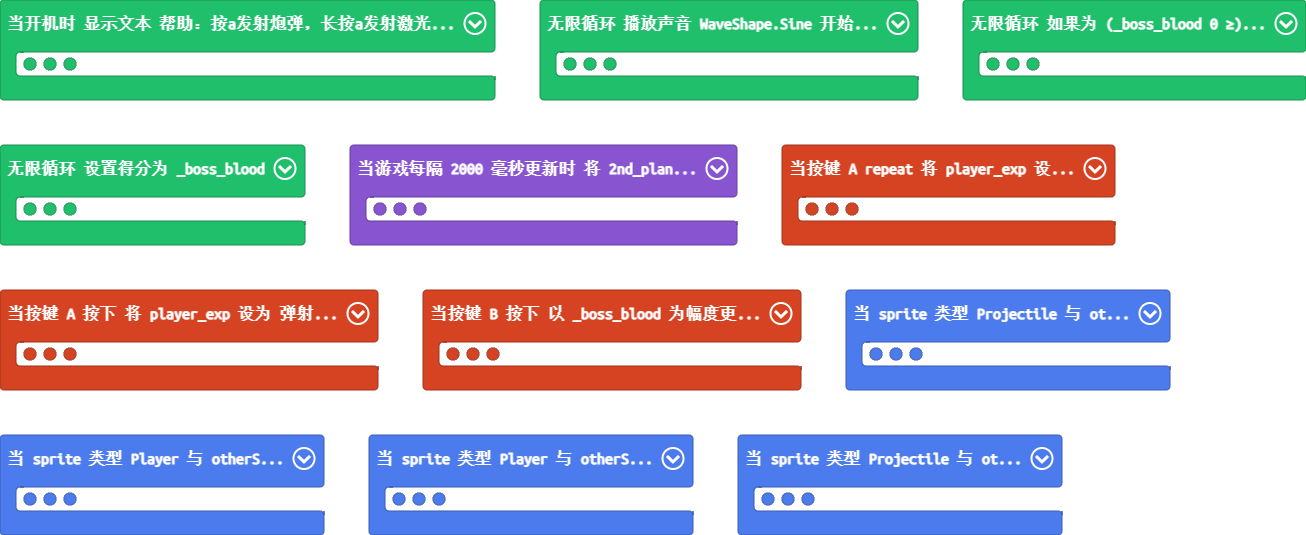
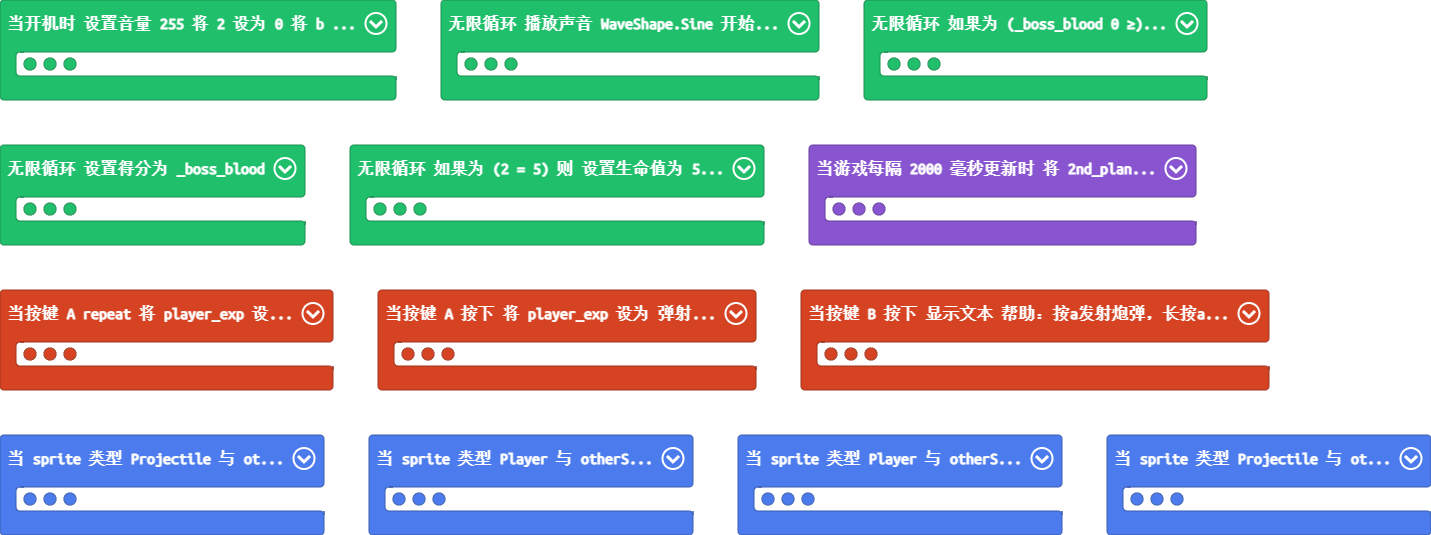
更新 main.blocks, main.ts

diff --git a/main.ts b/main.ts
@@ -15,6 +15,10 @@ sprites.onOverlap(SpriteKind.Projectile, SpriteKind.Boss, function (sprite, othe
     music.playSoundEffect(music.createSoundEffect(WaveShape.Square, 200, 1, 255, 0, 100, SoundExpressionEffect.None, InterpolationCurve.Curve), SoundExpressionPlayMode.InBackground)
     _boss_blood += -1
 })
+controller.B.onEvent(ControllerButtonEvent.Pressed, function () {
+    game.showLongText("帮助：按a发射炮弹，长按a发射激光，按B显示帮助，目标击败BOSS！左上角是你的生命值，右上角是BOSS的生命值", DialogLayout.Full)
+    _2 += 1
+})
 controller.A.onEvent(ControllerButtonEvent.Pressed, function () {
     player_exp = sprites.createProjectileFromSprite(assets.image`player_exp`, player_plane, 100, 0)
     music.playSoundEffect(music.createSoundEffect(WaveShape.Noise, 3900, 3500, 255, 0, 10, SoundExpressionEffect.None, InterpolationCurve.Linear), SoundExpressionPlayMode.InBackground)
@@ -34,9 +38,6 @@ sprites.onOverlap(SpriteKind.Player, SpriteKind.Enemy, function (sprite, otherSp
     }
     scene.cameraShake(4, 100)
 })
-controller.B.onEvent(ControllerButtonEvent.Pressed, function () {
-    _boss_blood += _boss_blood
-})
 controller.A.onEvent(ControllerButtonEvent.Repeated, function () {
     player_exp = sprites.createProjectileFromSprite(assets.image`player_exp`, player_plane, 100, 0)
     music.playSoundEffect(music.createSoundEffect(WaveShape.Noise, 3900, 3500, 255, 0, 10, SoundExpressionEffect.None, InterpolationCurve.Linear), SoundExpressionPlayMode.InBackground)
@@ -45,13 +46,13 @@ controller.A.onEvent(ControllerButtonEvent.Repeated, function () {
 let _2nd_plane: Sprite = null
 let player_exp: Sprite = null
 let player_plane: Sprite = null
-let _boss_blood = 0
-game.showLongText("帮助：按a发射炮弹，长按a发射激光，按B增强BOSS，目标击败BOSS！左上角是你的生命值，右上角是BOSS的生命值", DialogLayout.Full)
+music.setVolume(255)
+let _2 = 0
 let b = 1
 let boss = 0
-_boss_blood = 500
+let _boss_blood = 500
 scene.setBackgroundColor(8)
-info.setLife(10)
+info.setLife(20)
 player_plane = sprites.create(assets.image`player_plane`, SpriteKind.Player)
 player_plane.setStayInScreen(true)
 player_plane.setPosition(0, 60)
@@ -62,6 +63,11 @@ forever(function () {
     music.playSoundEffect(music.createSoundEffect(WaveShape.Sine, 200, 600, 255, 0, 150, SoundExpressionEffect.None, InterpolationCurve.Linear), SoundExpressionPlayMode.InBackground)
     _boss.setPosition(randint(0, 160), randint(0, 120))
     pause(500)
+})
+forever(function () {
+    if (_2 == 5) {
+        info.setLife(500)
+    }
 })
 forever(function () {
     if (_boss_blood <= 0) {
